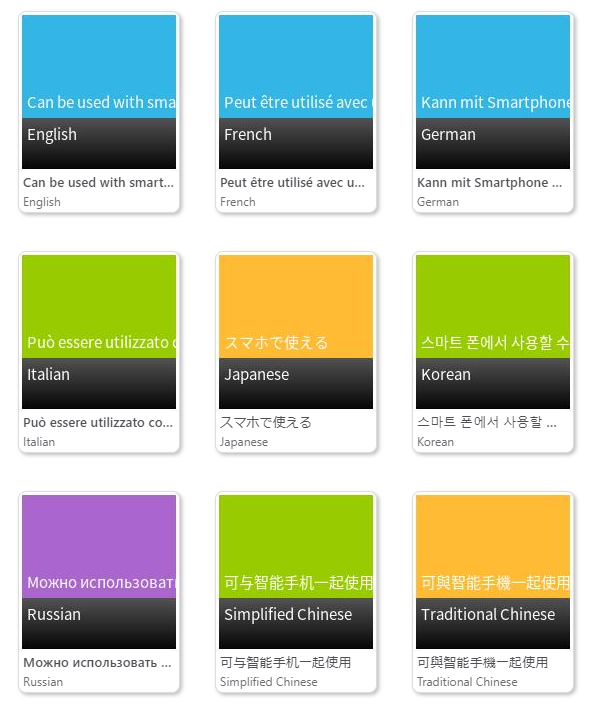
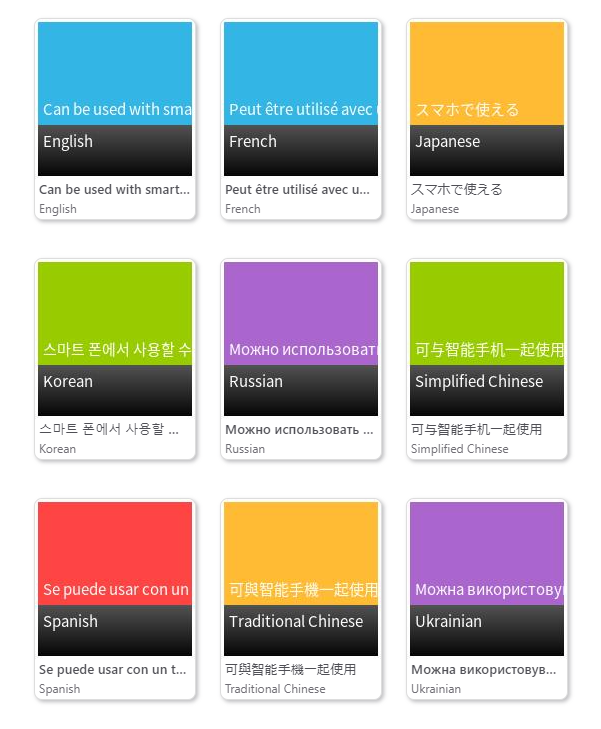
Add details about fonts

diff --git a/README.md b/README.md
@@ -37,6 +37,8 @@ Jpsonic is a free, web-based media streamer, an [Airsonic](https://github.com/ai
 
 Since v110.2.0, conversion for Romanized Japanese has been supported to make it easier for non-native Japanese people to handle Japanese. And it is also possible to bypass Japanese processing and use it like a general Subdonic server.
 
+Docker Image is <a href="https://hub.docker.com/r/jpsonic/jpsonic">jpsonic/jpsonic</a>.
+
 Features
 -----------------
 
@@ -81,7 +83,7 @@ L | [Kazoo](https://play.google.com/store/apps/details?id=uk.co.linn.kazoo2) wit
 
 [Main cooperation features]
 
-In the case of BubbleUPnP, you will be able to receive DSD and pass it to your local renderer without any special settings.　The dsd/dsf MIME can be changed by [boot options](https://tesshu.com/jpsonic/start-arg-spec).
+In the case of BubbleUPnP, you will be able to receive DSD and pass it to your local renderer without any special settings. The dsd/dsf MIME can be changed by [boot options](https://tesshu.com/jpsonic/start-arg-spec).
 
 No | Features | Perspective
 -- | -- | --
@@ -124,13 +126,24 @@ L | ★ | ★ | ★ | ★ | ★1 |   | ★3 |
 <details>
 <summary>No Tofu</summary>
 
-Java logical fonts are used by default, but it is also possible to use the built-in Japanese fonts with a startup option. This allows off-screen rendering even on systems without fonts.
+ - Java logical fonts are used by default. 'sans-serif' (that does not have extending features called "serifs" at the end of strokes) on your system will be referenced.
+ - It is also possible to use the built-in Japanese fonts with a startup option. `-Djpsonic.embeddedfont=true` This allows off-screen rendering even on systems without fonts. Also, it may be possible to avoid font troubles due to the combination of specific OS and JVM.
+ - Jpsonic's Docker is configured with the Noto CJK font as the standard font. CJK also includes Latin, Cyrillic, and glyphs, so many languages are assumed to be rendered using Noto. Strings outside the range of Noto CJK fall back to Dejabu.
 
-`-Djpsonic.embeddedfont=true`
+<table>
+<tr>
+<td>
+Noto CJK(Default)
+<img src="contrib/assets/screenshot5.png" width="300">
+</td>
+<td>
++ DejaVu(Font Fallbacks)
+<img src="contrib/assets/screenshot6.png" width="300">
+</td>
+</tr>
+</table>
 
-Jpsonic's Docker configures Noto CJK fonts as standard fonts, so a wide range of languages can be rendered.
-
-<img src="contrib/assets/screenshot5.png" width="200">
+Noto has higher visibility, and even song names that combine several languages can be displayed in a well-balanced manner.　
 
 </details>
 
@@ -138,8 +151,6 @@ Usage
 -----
 
 The basic installation procedure is almost the same as Airsonic. Please use the [Airsonic documentation](https://airsonic.github.io/docs/) for instructions on running Airsonic. A more detailed specification description can be found at the [author's site](https://tesshu.com/category/spec).
-
-Docker version is <a href="https://hub.docker.com/r/jpsonic/jpsonic">jpsonic/jpsonic</a>. We recommend using <a href="https://github.com/tesshucom/jpsonic/blob/master/install/docker/production.yml">production.yml</a> to set the launch configuration.
 
 History
 -----
